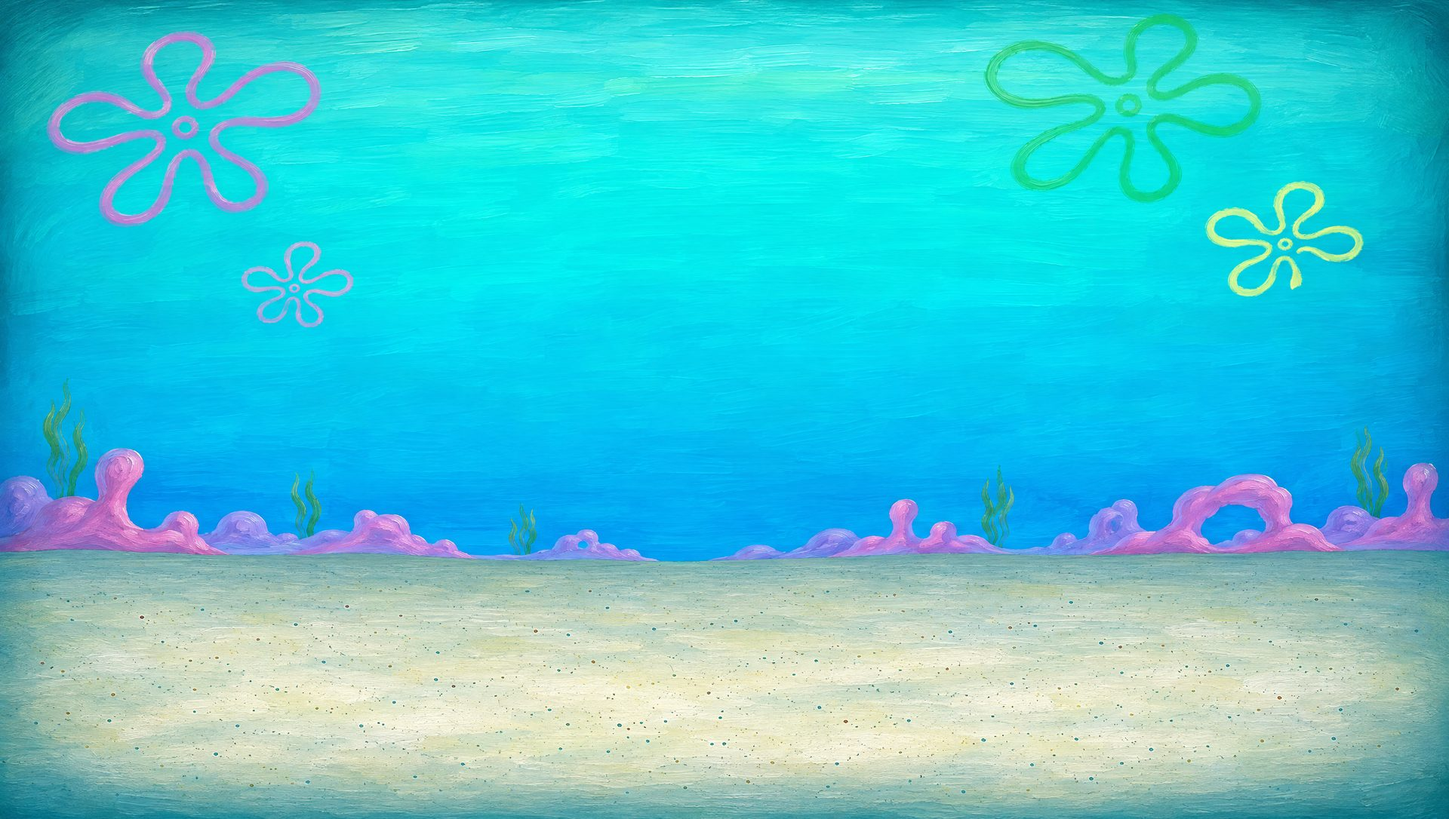
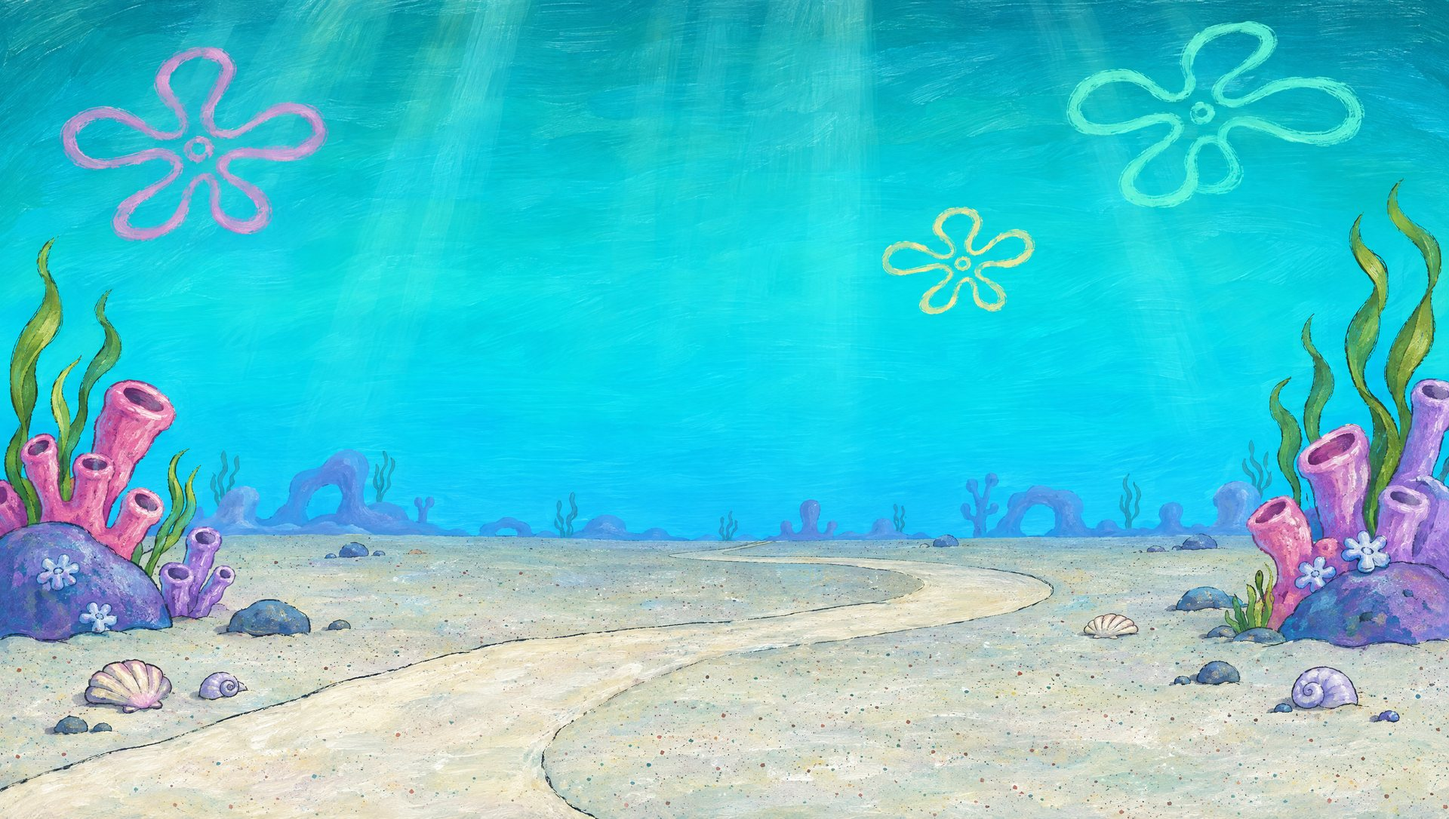
Painted UI v2, bubble transition into every question, question music slot
Claude-Session: https://claude.ai/code/session_01HH4vdgeaL3TvvtBRXqC2SQ

diff --git a/index.html b/index.html
@@ -209,65 +209,96 @@ button.lock:hover{filter:brightness(1.1)}
   .logo .a,.logo .b{font-size:22px}
 }
 
-/* ================= PAINTED UI SKIN (Higgsfield assets in ui/) ================= */
-:root{--ink2:#2b1a0a;--outline:#2b1a0a}
-body{background:#0a3d6b url(ui/bg.jpg) center/cover fixed}
-body::before{content:'';position:fixed;inset:0;background:linear-gradient(180deg,rgba(4,26,54,.05),rgba(4,26,54,.25));pointer-events:none;z-index:0}
-.sand{display:none}
-.logoimg{height:78px;display:block;filter:drop-shadow(0 6px 10px rgba(0,0,0,.35))}
-.top{padding:10px 24px 6px}
-/* buttons: painted, inked outline */
-.btn{border:3px solid var(--outline);box-shadow:0 5px 0 var(--outline);text-shadow:0 1px 0 rgba(255,255,255,.35)}
-.btn:active{box-shadow:0 2px 0 var(--outline)}
-.btn.pink,.btn.teal{box-shadow:0 5px 0 var(--outline)}
-.btn.sm{box-shadow:0 3px 0 var(--outline);border-width:2px}
-.btn.ghost{background:rgba(43,26,10,.55) url(ui/wood.jpg) center/300px;background-blend-mode:multiply;color:#fff4d6;border:2px solid var(--outline);box-shadow:0 3px 0 var(--outline)}
-.btn.ghost.sm{box-shadow:0 3px 0 var(--outline)}
-/* wooden board frame + metal tiles */
-.board{background:#5a3a1c url(ui/wood.jpg) center/420px;border:4px solid var(--outline);box-shadow:0 18px 40px rgba(0,0,0,.45),inset 0 0 0 4px rgba(255,220,150,.15);padding:12px;gap:10px;border-radius:20px}
-.cat{background:#3a250f url(ui/wood.jpg) center/260px;background-blend-mode:multiply;border:3px solid var(--outline);color:#ffe14d;text-shadow:2px 2px 0 var(--outline),-1px -1px 0 var(--outline),0 3px 0 var(--outline);border-radius:12px}
-.tilebtn{background:url(ui/tile.webp) center/100% 100% no-repeat;border-radius:10px;color:#ffd23f;
-  text-shadow:3px 3px 0 var(--outline),-2px -2px 0 var(--outline),2px -2px 0 var(--outline),-2px 2px 0 var(--outline),0 0 18px rgba(255,210,63,.35)}
-.tilebtn:hover{filter:brightness(1.15) saturate(1.1)}
-.tilebtn.used{background:url(ui/tile.webp) center/100% 100% no-repeat;filter:grayscale(.85) brightness(.45);color:transparent;text-shadow:none}
-/* wood panels and score cards */
-.panel,.pcard,.wcard,.pcard2{background:#4a2f14 url(ui/wood.jpg) center/380px;background-blend-mode:multiply;border:3px solid var(--outline);box-shadow:0 10px 24px rgba(0,0,0,.35),inset 0 0 0 3px rgba(255,220,150,.12)}
-.panel h2{text-shadow:2px 2px 0 var(--outline),-1px -1px 0 var(--outline)}
-.panel p,.hint{color:#f3dfb8}
-.pcard .sc{text-shadow:2px 2px 0 var(--outline),-1px -1px 0 var(--outline)}
-.pcard.lead{box-shadow:0 0 0 4px var(--gold),0 10px 24px rgba(0,0,0,.35)}
-.pl-row input,.wcard input{border:3px solid var(--outline);background:#fff8e6}
-.x{background:rgba(43,26,10,.6);border:2px solid var(--outline)}
-.seg{background:rgba(43,26,10,.55);border:2px solid var(--outline)}
-.status{background:rgba(43,26,10,.6);border:2px solid var(--outline);color:#fff4d6}
-.urlbox{background:rgba(43,26,10,.5)}
-#qr{border:4px solid var(--outline)}
-/* clue card on riveted metal */
-.cluetext{background:#cfc6e3 url(ui/metal.jpg) center/900px;color:#1d1240;text-shadow:none;border:4px solid var(--outline);border-radius:22px;padding:22px 34px;box-shadow:0 12px 30px rgba(0,0,0,.35)}
-.cluescreen.pic .cluetext{padding:10px 28px}
-.cluemeta{color:#fff4d6;text-shadow:2px 2px 0 var(--outline)}
-.cluemeta .val{text-shadow:2px 2px 0 var(--outline),-1px -1px 0 var(--outline)}
-.opt{border:3px solid var(--outline);box-shadow:0 5px 0 var(--outline)}
-.opt .L{background:rgba(255,255,255,.35);border:2px solid var(--outline)}
-.timer{border:3px solid var(--outline);height:18px;background:rgba(43,26,10,.5)}
-.timenum{text-shadow:2px 2px 0 var(--outline),-1px -1px 0 var(--outline)}
-.lock{background:rgba(43,26,10,.55);border:2px solid var(--outline);box-shadow:none}
-.picframe{box-shadow:0 0 0 5px var(--outline),0 0 0 10px #ffd23f,0 18px 40px rgba(0,0,0,.5)}
-.dd{text-shadow:4px 4px 0 var(--outline),-2px -2px 0 var(--outline),0 10px 30px rgba(0,0,0,.4)}
-.pod{border:3px solid var(--outline)}
-.modal .panel{background:#4a2f14 url(ui/wood.jpg) center/380px;background-blend-mode:multiply}
+/* ================= PAINTED UI SKIN v2 (Higgsfield art in ui/) ================= */
+:root{--wood:#5b3a1a;--ink3:#2a1b0c;--soft:0 6px 14px rgba(10,30,50,.35)}
+body{background:#1aa6c4 url(ui/bg.jpg) center bottom/cover fixed}
+body.phone-mode{background:#1aa6c4 url(ui/bg-phone.jpg) center bottom/cover fixed}
+.sand,#bubbles .bub:nth-child(3n){display:none}
+.top{padding:10px 26px 4px}
+.logoimg{height:92px;display:block;filter:drop-shadow(0 8px 12px rgba(10,30,50,.35))}
+.lobby .logoimg{height:120px}
+/* painted text: soft depth, no hard outlines */
+.display,.cat,.tilebtn,.dd,.timenum,.pcard .sc,.panel h2,.cluemeta .val{-webkit-text-stroke:0}
+/* buttons: painted planks via border-image so the rounded ends never stretch */
+.btn{border:0;box-shadow:none;background:none;border-image:url(ui/btn0.webp) 45% 22% fill / 50% 1.1em stretch;color:#3a2206;
+  padding:12px 26px;filter:drop-shadow(0 5px 6px rgba(10,30,50,.35));text-shadow:0 1px 0 rgba(255,255,255,.45);transition:transform .1s,filter .1s}
+.btn:hover{transform:translateY(-2px);filter:drop-shadow(0 8px 8px rgba(10,30,50,.35)) brightness(1.05)}
+.btn:active{transform:translateY(2px);box-shadow:none}
+.btn.pink{border-image-source:url(ui/btn1.webp)}
+.btn.teal{border-image-source:url(ui/btn2.webp)}
+.btn.big{padding:16px 40px;border-image-width:50% 1.5em}
+.btn.sm{padding:9px 18px;border-image-width:50% .9em;box-shadow:none}
+.btn.ghost,.btn.ghost.sm{border-image:url(ui/plank.webp) 30% 10% fill / 50% .8em stretch;color:#fff3d6;box-shadow:none;text-shadow:0 1px 2px rgba(0,0,0,.6)}
+.btn:disabled{filter:grayscale(.6) brightness(.85)}
+/* board: blue painted plates and wooden signs, no frame box */
+.board{background:rgba(10,40,70,.18);border:0;box-shadow:none;padding:10px;gap:10px;border-radius:24px;backdrop-filter:blur(1px)}
+.cat{background:url(ui/plank.webp) center/100% 100% no-repeat;border:0;border-radius:0;color:#fff3c4;
+  text-shadow:0 2px 0 rgba(60,30,5,.85),0 0 10px rgba(40,20,0,.45);filter:drop-shadow(0 6px 6px rgba(10,30,50,.35));padding:14px 14px}
+.tilebtn{background:url(ui/tile.webp) center/100% 100% no-repeat;border-radius:14px;color:#ffd23f;
+  text-shadow:0 3px 0 #8a5307,0 4px 0 #5a3205,0 8px 14px rgba(0,0,0,.45);filter:drop-shadow(0 6px 6px rgba(10,30,50,.35))}
+.tilebtn:hover{transform:scale(1.04) rotate(-.6deg);filter:drop-shadow(0 10px 10px rgba(10,30,50,.4)) brightness(1.08)}
+.tilebtn.used{background:url(ui/tile.webp) center/100% 100% no-repeat;opacity:.28;filter:grayscale(.7);color:transparent;text-shadow:none}
+.tilebtn.used::after{display:none}
+/* lobby panels and modals on the framed wooden board */
+.panel,.modal .panel{background:url(ui/panel.webp) center/100% 100% no-repeat;border:0;box-shadow:none;padding:clamp(70px,9%,96px) clamp(78px,11%,110px) clamp(74px,9%,96px);filter:drop-shadow(0 12px 18px rgba(10,30,50,.4))}
+.panel h2{color:#ffd23f;text-shadow:0 2px 0 rgba(60,30,5,.9),0 0 10px rgba(0,0,0,.4)}
+.panel p,.panel .hint,.jrow .hint{color:#f6e3bd}
+.pl-row input,.wcard input{border:0;background:#fff8e6;box-shadow:inset 0 2px 4px rgba(60,30,5,.35);border-radius:14px}
+.x{background:rgba(255,248,230,.14);border:0;border-radius:12px}
+.seg{background:rgba(255,248,230,.12);border:0;border-radius:14px}
+.seg button.on{background:#ffd23f;color:#3a2206;box-shadow:0 2px 4px rgba(0,0,0,.3)}
+.status{background:rgba(20,40,60,.55);border:0;color:#fff;backdrop-filter:blur(3px)}
+.urlbox{background:rgba(255,248,230,.12)}
+#qr{border:0;box-shadow:0 6px 14px rgba(0,0,0,.35)}
+/* score cards on planks */
+.pcard{background:url(ui/plank.webp) center/100% 100% no-repeat;border:0;box-shadow:none;padding:16px 30px;filter:drop-shadow(0 6px 8px rgba(10,30,50,.35))}
+.pcard .nm{color:#fff3d6;text-shadow:0 1px 2px rgba(0,0,0,.6)}
+.pcard .sc{text-shadow:0 2px 0 #5a3205,0 0 8px rgba(0,0,0,.4)}
+.pcard.lead{box-shadow:none;filter:drop-shadow(0 0 10px rgba(255,210,63,.9)) drop-shadow(0 6px 8px rgba(10,30,50,.35))}
+.wcard{background:url(ui/panel.webp) center/100% 100% no-repeat;border:0;box-shadow:none;padding:34px 34px 30px}
+/* clue card: painted riveted sign */
+.cluetext{background:url(ui/card.webp) center/100% 100% no-repeat;color:#241640;text-shadow:none;border:0;border-radius:0;
+  padding:48px 80px;max-width:1150px;filter:drop-shadow(0 12px 18px rgba(10,30,50,.4))}
+.cluescreen.pic .cluetext{padding:22px 60px}
+.cluemeta{color:#fff;text-shadow:0 2px 4px rgba(0,0,0,.5)}
+.cluemeta .val{text-shadow:0 2px 0 #5a3205,0 0 8px rgba(0,0,0,.4)}
+/* answer options on colored planks */
+.opt{background:none;border:0;box-shadow:none!important;border-image:url(ui/btn0.webp) 45% 22% fill / 50% 2.2em stretch;padding:20px 44px;color:#2a1608;filter:drop-shadow(0 6px 6px rgba(10,30,50,.35))}
+.opt.o1{border-image-source:url(ui/btn1.webp)}.opt.o2{border-image-source:url(ui/btn2.webp)}.opt.o3{border-image-source:url(ui/btn3.webp)}
+.opt .L{background:#fff8e6;border:0;border-radius:50%;color:#3a2206;box-shadow:0 2px 4px rgba(60,30,5,.35)}
+.opt.win{outline:none;filter:drop-shadow(0 0 14px #fff) drop-shadow(0 0 4px #fff)}
+.timer{border:0;height:16px;background:rgba(255,248,230,.35);box-shadow:inset 0 2px 4px rgba(0,0,0,.25)}
+.timenum{text-shadow:0 2px 0 #5a3205,0 0 8px rgba(0,0,0,.4)}
+.lock{background:rgba(20,40,60,.55);border:0;color:#fff;backdrop-filter:blur(3px)}
+.lock.in{background:#fff8e6;color:#3a2206}
+.cluescreen .hint{background:rgba(20,40,60,.55);padding:6px 16px;border-radius:99px;border:0;color:#fff;backdrop-filter:blur(3px)}
+.picframe{box-shadow:0 0 0 8px #6b4423,0 0 0 11px #3f2610,0 18px 40px rgba(0,0,0,.45);border-radius:18px}
+.dd{color:#ffd23f;text-shadow:0 5px 0 #8a5307,0 8px 0 #5a3205,0 16px 30px rgba(0,0,0,.45)}
+.pod{border:0;box-shadow:0 10px 20px rgba(0,0,0,.35)}
 /* phones */
-.ph-clue{background:#cfc6e3 url(ui/metal.jpg) center/700px;color:#1d1240;border:3px solid var(--outline)}
-.ph-opt{border:3px solid var(--outline);box-shadow:0 4px 0 var(--outline)}
-.ph-name{border:3px solid var(--outline);box-shadow:0 5px 0 var(--outline)!important}
-.ph-big{text-shadow:2px 2px 0 var(--outline),-1px -1px 0 var(--outline)}
-.ph-score{text-shadow:2px 2px 0 var(--outline)}
-.ph-sub{color:#f3dfb8;text-shadow:1px 1px 0 rgba(0,0,0,.5)}
-.ph-wager{border:3px solid var(--outline)}
-.ph-top{background:rgba(43,26,10,.55) url(ui/wood.jpg) center/300px;background-blend-mode:multiply;border:3px solid var(--outline);border-radius:16px;padding:8px 12px}
-.ph-lock{border:4px solid var(--outline)}
-.cluescreen .hint{background:rgba(43,26,10,.7);padding:6px 14px;border-radius:99px;border:2px solid var(--outline);color:#fff4d6}
-.ph-sub{text-shadow:1px 1px 0 var(--outline),0 0 6px rgba(0,0,0,.6)}
+.ph-top{background:none;border:0;border-image:url(ui/plank.webp) 30% 10% fill / 50% 1em stretch;padding:12px 18px;filter:drop-shadow(0 4px 6px rgba(10,30,50,.35))}
+.ph-top .me .link{color:#ffe9b8}
+.ph-top .me{color:#fff3d6;text-shadow:0 1px 2px rgba(0,0,0,.6)}
+.ph-score{text-shadow:0 2px 0 #5a3205}
+.ph-clue{background:url(ui/card.webp) center/100% 100% no-repeat;color:#241640;border:0;padding:24px 26px;filter:drop-shadow(0 6px 8px rgba(10,30,50,.35))}
+.ph-opt{background:none!important;border:0;box-shadow:none;border-image:url(ui/btn0.webp) 45% 22% fill / 50% 1.6em stretch;padding:16px 26px;color:#2a1608;filter:drop-shadow(0 4px 5px rgba(10,30,50,.35))}
+.ph-opt.o1{border-image-source:url(ui/btn1.webp)}.ph-opt.o2{border-image-source:url(ui/btn2.webp)}.ph-opt.o3{border-image-source:url(ui/btn3.webp)}
+.ph-opt .L{background:#fff8e6;border-radius:50%;color:#3a2206}
+.ph-name{background:none!important;border:0;box-shadow:none!important;border-image:url(ui/btn0.webp) 45% 22% fill / 50% 1.6em stretch;color:#3a2206;filter:drop-shadow(0 4px 5px rgba(10,30,50,.35))}
+.ph-name:nth-child(3n+2){border-image-source:url(ui/btn1.webp)}.ph-name:nth-child(3n){border-image-source:url(ui/btn2.webp)}
+.ph-big{color:#fff;text-shadow:0 3px 0 rgba(20,60,90,.6),0 0 12px rgba(0,0,0,.35)}
+.ph-sub{color:#fff;text-shadow:0 1px 3px rgba(0,0,0,.6)}
+.ph-wager{border:0;box-shadow:inset 0 2px 4px rgba(60,30,5,.35)}
+.ph-lock{border:0;box-shadow:0 8px 16px rgba(0,0,0,.35)}
+.ph-timer{background:rgba(255,248,230,.35)}
+.lobby{padding-top:0;gap:18px}
+.lobby .panel h2{font-size:24px;margin-bottom:2px}.lobby .panel p{margin-bottom:10px}
+.lobby .pl-row{margin-bottom:7px}.lobby .pl-row input{padding:8px 12px;font-size:18px}.lobby .x{height:40px}
+.lobby .settings{gap:7px;margin-top:12px!important}
+.lobby .panel{padding-bottom:clamp(84px,11%,110px)}
+.lobby .panel .row{flex-wrap:nowrap}
+.lobby #qr{width:200px;height:200px;padding:10px}.lobby #qr img,.lobby #qr canvas{width:180px!important;height:180px!important}
+.lobby .qrbox{flex-wrap:nowrap;gap:16px}
 /* transition logo */
 .bubwipe .ttl img{width:min(70vw,900px);filter:drop-shadow(0 12px 30px rgba(0,0,0,.45))}
 </style>
@@ -461,6 +492,24 @@ function saveTVid(file){if(!file)return;if(picDB){try{picDB.transaction('pics','
   if(TVID_URL&&TVID_URL.startsWith('blob:'))URL.revokeObjectURL(TVID_URL);TVID_URL=URL.createObjectURL(file);TVID_FROM='laptop';render()}
 function removeTVid(){if(picDB){try{picDB.transaction('pics','readwrite').objectStore('pics').delete('__transvideo')}catch(e){}}if(TVID_URL&&TVID_URL.startsWith('blob:'))URL.revokeObjectURL(TVID_URL);TVID_URL=null;TVID_FROM='';render()}
 const isVideo=f=>(f.type&&f.type.startsWith('video/'))||/\.(webm)$/i.test(f.name||'');
+/* ---- question music (plays while a clue is up) ---- */
+let MUSIC=[], MUSIC_LOCAL=0, musicEl=null;
+async function loadMusic(){
+  MUSIC=[];MUSIC_LOCAL=0;
+  if(picDB){await new Promise(res=>{try{const q=picDB.transaction('pics').objectStore('pics').get('__music');q.onsuccess=()=>{(q.result||[]).forEach(b=>MUSIC.push(URL.createObjectURL(b)));MUSIC_LOCAL=MUSIC.length;res()};q.onerror=()=>res()}catch(e){res()}})}
+  if(/^https?:$/.test(location.protocol)){const base=location.href.split(/[?#]/)[0].replace(/[^/]*$/,'');
+    await Promise.all(Array.from({length:12},(_,i)=>i+1).map(async i=>{try{const r=await fetch(base+'sounds/music'+i+'.mp3',{method:'HEAD'});if(r.ok)MUSIC.push(base+'sounds/music'+i+'.mp3')}catch(e){}}))}
+}
+async function addMusic(files){const list=[...files].filter(f=>isAudio(f));if(!list.length)return;
+  let cur=[];if(picDB){cur=await new Promise(res=>{try{const q=picDB.transaction('pics').objectStore('pics').get('__music');q.onsuccess=()=>res(q.result||[]);q.onerror=()=>res([])}catch(e){res([])}})}
+  cur=cur.concat(list);if(picDB){try{picDB.transaction('pics','readwrite').objectStore('pics').put(cur,'__music')}catch(e){}}
+  await loadMusic();render()}
+async function clearMusic(){if(picDB){try{picDB.transaction('pics','readwrite').objectStore('pics').delete('__music')}catch(e){}}await loadMusic();render()}
+function startMusic(){if(!G||!G.sound||!MUSIC.length)return;stopMusic(true);
+  try{const a=new Audio(MUSIC[Math.floor(Math.random()*MUSIC.length)]);a.loop=true;a.volume=0;a.play().catch(()=>{});musicEl=a;
+    let v=0;const t=setInterval(()=>{if(musicEl!==a){clearInterval(t);return}v=Math.min(.45,v+.05);a.volume=v;if(v>=.45)clearInterval(t)},60)}catch(e){}}
+function stopMusic(now){const a=musicEl;musicEl=null;if(!a)return;if(now){a.pause();return}
+  const t=setInterval(()=>{a.volume=Math.max(0,a.volume-.06);if(a.volume<=0){clearInterval(t);a.pause()}},40)}
 const isAudio=f=>(f.type&&f.type.startsWith('audio/'))||/\.(mp3|m4a|wav|ogg)$/i.test(f.name||'');
 function playStartSound(force){
   if(!force&&G&&!G.sound)return;
@@ -501,6 +550,7 @@ async function bulkImport(files){
           await savePic(id,new File([blob],e.name,{type:'image/'+(ext==='jpg'?'jpeg':ext)}));ok++}
       }catch(err){skip.push(f.name+' (could not open zip)')}
     } else if(isVideo(f)){saveTVid(f);ok++;
+    } else if(isAudio(f)&&/^(music|question)/i.test(f.name)){await addMusic([f]);ok++;
     } else if(isAudio(f)){saveSound(f);ok++;
     } else if(f.type&&f.type.startsWith('image/')){
       const id=stemOf(f.name);if(picById(id)){await savePic(id,f);ok++}else skip.push(f.name);
@@ -568,15 +618,22 @@ function preFinalScores(){const keep=G.fres;G.fres={};const s=scores();G.fres=ke
 function maxWager(p){return Math.max(preFinalScores()[p]||0,1000)}
 function timeLeft(){return Math.max(0,G.endsAt-Date.now())}
 
-function setPhase(ph){G.phase=ph;save();render();publish()}
+function setPhase(ph){const prev=G.phase;G.phase=ph;save();render();publish();
+  if((ph==='clue'||ph==='finalClue')&&prev!==ph)startMusic();else if(ph!=='clue'&&ph!=='finalClue')stopMusic()}
 
+let transitioning=false;
 function openClue(id){
+  if(G.used[id]||transitioning)return;
+  transitioning=true;G.tr=(G.tr||0)+1;publish();playStartSound();
+  bubbleTransition(()=>{transitioning=false;openClueNow(id)});
+}
+function openClueNow(id){
   if(G.used[id])return;
   G.current=id;G.answers={};G.key='k'+Date.now().toString(36);
   if(id===G.dd){sfx.dd();G.endsAt=0;setPhase('dd');return}
   startClueTimer();
 }
-function startClueTimer(){G.endsAt=Date.now()+G.timer*1000;sfx.open();setPhase('clue')}
+function startClueTimer(){G.endsAt=Date.now()+G.timer*1000;setPhase('clue')}
 function addTime(){G.endsAt=Math.max(G.endsAt,Date.now())+10000;save();render();publish()}
 function reveal(){
   const id=G.current, C=clueOf(id), v=C.v*(id===G.dd?2:1), r={};
@@ -651,7 +708,7 @@ function joinUrl(){
 
 function publicState(){
   const s=scores();
-  const st={ph:G.phase==='pics'?'lobby':G.phase,pl:G.players,sc:s,k:G.key,ans:Object.keys(G.answers),end:timeLeft(),tot:G.phase==='finalClue'?30000:G.timer*1000,t:Date.now()};
+  const st={tr:G.tr||0,ph:G.phase==='pics'?'lobby':G.phase,pl:G.players,sc:s,k:G.key,ans:Object.keys(G.answers),end:timeLeft(),tot:G.phase==='finalClue'?30000:G.timer*1000,t:Date.now()};
   if(G.phase==='dd'){const C=clueOf(G.current);st.c={cat:C.cat,v:C.v*2,dd:1}}
   if(G.phase==='clue'||G.phase==='reveal'){const C=clueOf(G.current);st.c={cat:C.cat,v:C.v*(G.current===G.dd?2:1),q:C.q,o:C.o,dd:G.current===G.dd?1:0,pic:C.img?1:0}}
   if(G.phase==='reveal'){const R=G.results[G.current];st.rv={a:clueOf(G.current).a,r:R.r}}
@@ -678,7 +735,7 @@ setInterval(()=>{
 let picFilter='all', picSel=null;
 // card selection, file input, drag-drop, paste for picture setup
 document.addEventListener('click',e=>{if(MODE!=='host'||!G||G.phase!=='pics')return;if(e.target.closest('button,a,input'))return;const c=e.target.closest('[data-pic]');if(c){picSel=c.dataset.pic;render()}},true);
-document.addEventListener('change',e=>{if(e.target&&e.target.id==='vidin'&&e.target.files[0]){saveTVid(e.target.files[0]);return}if(e.target&&e.target.id==='sndin'&&e.target.files[0]){saveSound(e.target.files[0]);return}if(e.target&&e.target.id==='bulkin'&&e.target.files.length){bulkImport([...e.target.files]);return}const id=e.target&&e.target.dataset&&e.target.dataset.picfile;if(id&&e.target.files[0]){savePic(id,e.target.files[0])}});
+document.addEventListener('change',e=>{if(e.target&&e.target.id==='musin'&&e.target.files.length){addMusic(e.target.files);return}if(e.target&&e.target.id==='vidin'&&e.target.files[0]){saveTVid(e.target.files[0]);return}if(e.target&&e.target.id==='sndin'&&e.target.files[0]){saveSound(e.target.files[0]);return}if(e.target&&e.target.id==='bulkin'&&e.target.files.length){bulkImport([...e.target.files]);return}const id=e.target&&e.target.dataset&&e.target.dataset.picfile;if(id&&e.target.files[0]){savePic(id,e.target.files[0])}});
 document.addEventListener('dragover',e=>{if(MODE==='host'&&G&&G.phase==='pics'){e.preventDefault();document.querySelectorAll('.pcard2.drag').forEach(x=>x.classList.remove('drag'));const c=e.target.closest('[data-pic]');if(c)c.classList.add('drag')}});
 document.addEventListener('drop',e=>{if(MODE!=='host'||!G||G.phase!=='pics')return;e.preventDefault();const fs=[...(e.dataTransfer&&e.dataTransfer.files||[])];if(!fs.length)return;const c=e.target.closest('[data-pic]');if(c&&fs.length===1&&!/\.zip$/i.test(fs[0].name)){picSel=c.dataset.pic;savePic(c.dataset.pic,fs[0])}else bulkImport(fs)});
 document.addEventListener('paste',e=>{if(MODE!=='host'||!G||G.phase!=='pics'||!picSel)return;const it=[...(e.clipboardData&&e.clipboardData.items||[])].find(x=>x.type.startsWith('image/'));if(it){e.preventDefault();savePic(picSel,it.getAsFile())}});
@@ -721,7 +778,7 @@ function render(){
     app.innerHTML=hostHeader(`<span class="status"><span class="dot ${netOK?'on':''}"></span>Code ${esc(G.code||'')} · ${peerCount} phone${peerCount===1?'':'s'}</span>
       <button class="btn ghost sm" data-act="lobby">Players & QR</button>
       <button class="btn ${done>=totalClues()?'':'ghost'} sm" data-act="final">Final Jeopardy${done>=totalClues()?' →':''}</button>`)+
-      `<div class="boardwrap"><div class="board" style="--cols:${DATA.cats.length+(hasPicCol()?1:0)}">${DATA.cats.map(c=>`<div class="cat display">${esc(c.name)}</div>`).join('')}${hasPicCol()?`<div class="cat display" style="background:linear-gradient(180deg,#d4a017,#b07d0a);color:#fff">📷 ${PIC_CAT}</div>`:''}
+      `<div class="boardwrap"><div class="board" style="--cols:${DATA.cats.length+(hasPicCol()?1:0)}">${DATA.cats.map(c=>`<div class="cat display">${esc(c.name)}</div>`).join('')}${hasPicCol()?`<div class="cat display" style="color:#ffd23f">📷 ${PIC_CAT}</div>`:''}
       ${VALUES.map((v,r)=>DATA.cats.map((c,ci)=>{const id=ci+'-'+r;return `<button class="tilebtn display ${G.used[id]?'used':''}" data-clue="${id}" ${G.used[id]?'disabled':''}>$${v}</button>`}).join('')+(hasPicCol()?(()=>{const id='p-'+r;const ok=G.picCol[r];return `<button class="tilebtn display ${!ok||G.used[id]?'used':''}" data-clue="${id}" ${!ok||G.used[id]?'disabled':''}>$${v}</button>`})():'')).join('')}
       </div>${scoreCards()}</div>`;
     return;
@@ -795,11 +852,14 @@ function renderLobby(app){
         <div class="set">Bubble video<div class="row" style="gap:6px;justify-content:flex-end"><span class="hint" style="font-size:13px">${TVID_URL?(TVID_FROM==='site'?'🎞 From site':'🎞 Custom video'):'Built-in bubbles'}</span>
           <button class="btn ghost sm" data-act="vidload">${TVID_URL&&TVID_FROM==='laptop'?'Replace':'Load video'}</button>${TVID_URL&&TVID_FROM==='laptop'?'<button class="btn ghost sm" data-act="vidrm">Remove</button>':''}
           <input type="file" id="vidin" accept="video/webm,.webm" hidden></div></div>
+        <div class="set">Question music<div class="row" style="gap:6px;justify-content:flex-end"><span class="hint" style="font-size:13px">${MUSIC.length?'🎵 '+MUSIC.length+' track'+(MUSIC.length===1?'':'s'):'None yet'}</span>
+          <button class="btn ghost sm" data-act="musload">Add tracks</button>${MUSIC_LOCAL?'<button class="btn ghost sm" data-act="musclr">Clear</button>':''}
+          <input type="file" id="musin" accept="audio/*,.mp3,.m4a,.wav,.ogg" multiple hidden></div></div>
         <div class="set">Sound<div class="seg"><button class="${G.sound?'on':''}" data-sound="1">On</button><button class="${!G.sound?'on':''}" data-sound="0">Off</button></div></div>
       </div>
       <div class="row" style="justify-content:flex-start;margin-top:24px">
         <button class="btn big" data-act="start">${inGame?'Resume game':'Start the game'} →</button>
-        <button class="btn teal" data-act="pics">📷 Picture setup (${picCount()})</button>
+        <button class="btn teal sm" data-act="pics">📷 Picture setup (${picCount()})</button>
         ${inGame?'<button class="btn ghost" data-act="reset">New game</button>':''}
       </div>
     </div>
@@ -841,14 +901,16 @@ document.addEventListener('click',e=>{
   if(t.dataset.cyc!=null){G.phase==='finalReveal'?cycleFinal(t.dataset.cyc):cycle(t.dataset.cyc);return}
   if(t.dataset.timer){syncNames();G.timer=+t.dataset.timer;save();render();return}
   if(t.dataset.minus){syncNames();G.minus=t.dataset.minus==='1';save();render();return}
-  if(t.dataset.sound){syncNames();G.sound=t.dataset.sound==='1';save();render();return}
+  if(t.dataset.sound){syncNames();G.sound=t.dataset.sound==='1';if(!G.sound)stopMusic(true);save();render();return}
   if(t.dataset.rm!=null){syncNames();if(G.players.length>1){G.players.splice(+t.dataset.rm,1);save()}render();publish();return}
   const a=t.dataset.act;if(!a)return;
   if(a==='addpl'){syncNames();if(G.players.length<8){G.players.push('Player '+(G.players.length+1));save()}render();publish();return}
-  if(a==='start'){syncNames();if(!Object.keys(G.used).length)assignPics();playStartSound();bubbleTransition(()=>setPhase('board'));return}
+  if(a==='start'){syncNames();if(!Object.keys(G.used).length)assignPics();G.tr=(G.tr||0)+1;publish();playStartSound();bubbleTransition(()=>setPhase('board'));return}
   if(a==='sndload'){const i=$('#sndin');if(i)i.click();return}
   if(a==='sndtest'){playStartSound(true);bubbleTransition(null);return}
   if(a==='sndrm'){removeSound();return}
+  if(a==='musload'){const i=$('#musin');if(i)i.click();return}
+  if(a==='musclr'){clearMusic();return}
   if(a==='vidload'){const i=$('#vidin');if(i)i.click();return}
   if(a==='vidrm'){removeTVid();return}
   if(a==='pics'){syncNames();setPhase('pics');return}
@@ -913,7 +975,7 @@ function connectHost(){
   c.on('error',()=>{});
 }
 function onHostState(st){
-  const prevK=H&&H.k;if(H&&H.ph==='lobby'&&st.ph==='board')bubbleTransition(null);H=st;Hrecv=Date.now();
+  const prevK=H&&H.k;if(H&&st.tr&&st.tr!==H.tr&&Date.now()-Hrecv<20000)bubbleTransition(null);H=st;Hrecv=Date.now();
   if(prevK!==H.k&&(H.ph==='clue'||H.ph==='finalClue')){try{navigator.vibrate&&navigator.vibrate(80)}catch(e){}}
   prender();
 }
@@ -1006,8 +1068,8 @@ function boot(){
     if(G.phase==='pics')G.phase='lobby';
     if(G.phase==='clue'||G.phase==='finalClue'){if(timeLeft()<=0)G.endsAt=Date.now()+5000}
     render();hostNet();setInterval(publish,4000);
-    loadPics().then(loadRepoPics).then(loadSound).then(loadTVid).then(()=>render());
-  } else {prender();playerNet()}
+    loadPics().then(loadRepoPics).then(loadSound).then(loadTVid).then(loadMusic).then(()=>render());
+  } else {document.body.classList.add('phone-mode');prender();playerNet()}
 }
 window.addEventListener('hashchange',()=>location.reload());
 boot();

diff --git a/README.md b/README.md
@@ -23,4 +23,7 @@ The column only appears once you've added pictures. There are two ways to add th
 Pressing **Start the game** plays a bubble transition on the big screen and every phone. To add your own sound effect: in the lobby, find **Start transition**, tap **Load sound** and pick an audio file (MP3, M4A, WAV or OGG). The sound saves on that laptop, and **Preview** plays it with the animation. If no sound is loaded, the game plays built-in bubble pops. To use a bubble video, tap **Load video** under **Bubble video** and pick a WebM with a transparent background. It plays on the big screen, and phones show built-in CSS bubbles. You can also put files at `sounds/transition.mp3` and `sounds/bubbles.webm` in the repo.
 
 ## Art
-The UI art in `ui/` (seafloor background, wood planks, blue riveted tiles, metal clue card, sign logo) is original artwork generated with Higgsfield (GPT Image 2.6), using painted-style reference stills for texture and color.
+The UI art in `ui/` (desktop and phone backgrounds, logo sign, blue board tiles, wooden category signs, clue card, framed lobby boards, four painted answer buttons) is original hand-painted-style artwork generated with Higgsfield (GPT Image 2.6), using painted reference stills for texture and color only.
+
+## Question music
+Opening any clue plays the bubble transition. To add music that plays while a question is up, tap **Add tracks** under **Question music** in the lobby (tracks are saved on that laptop), or put files at `sounds/music1.mp3`, `sounds/music2.mp3` and so on, up to `music12.mp3`. A random track plays for each question, fades in, and fades out when the answer is revealed.
